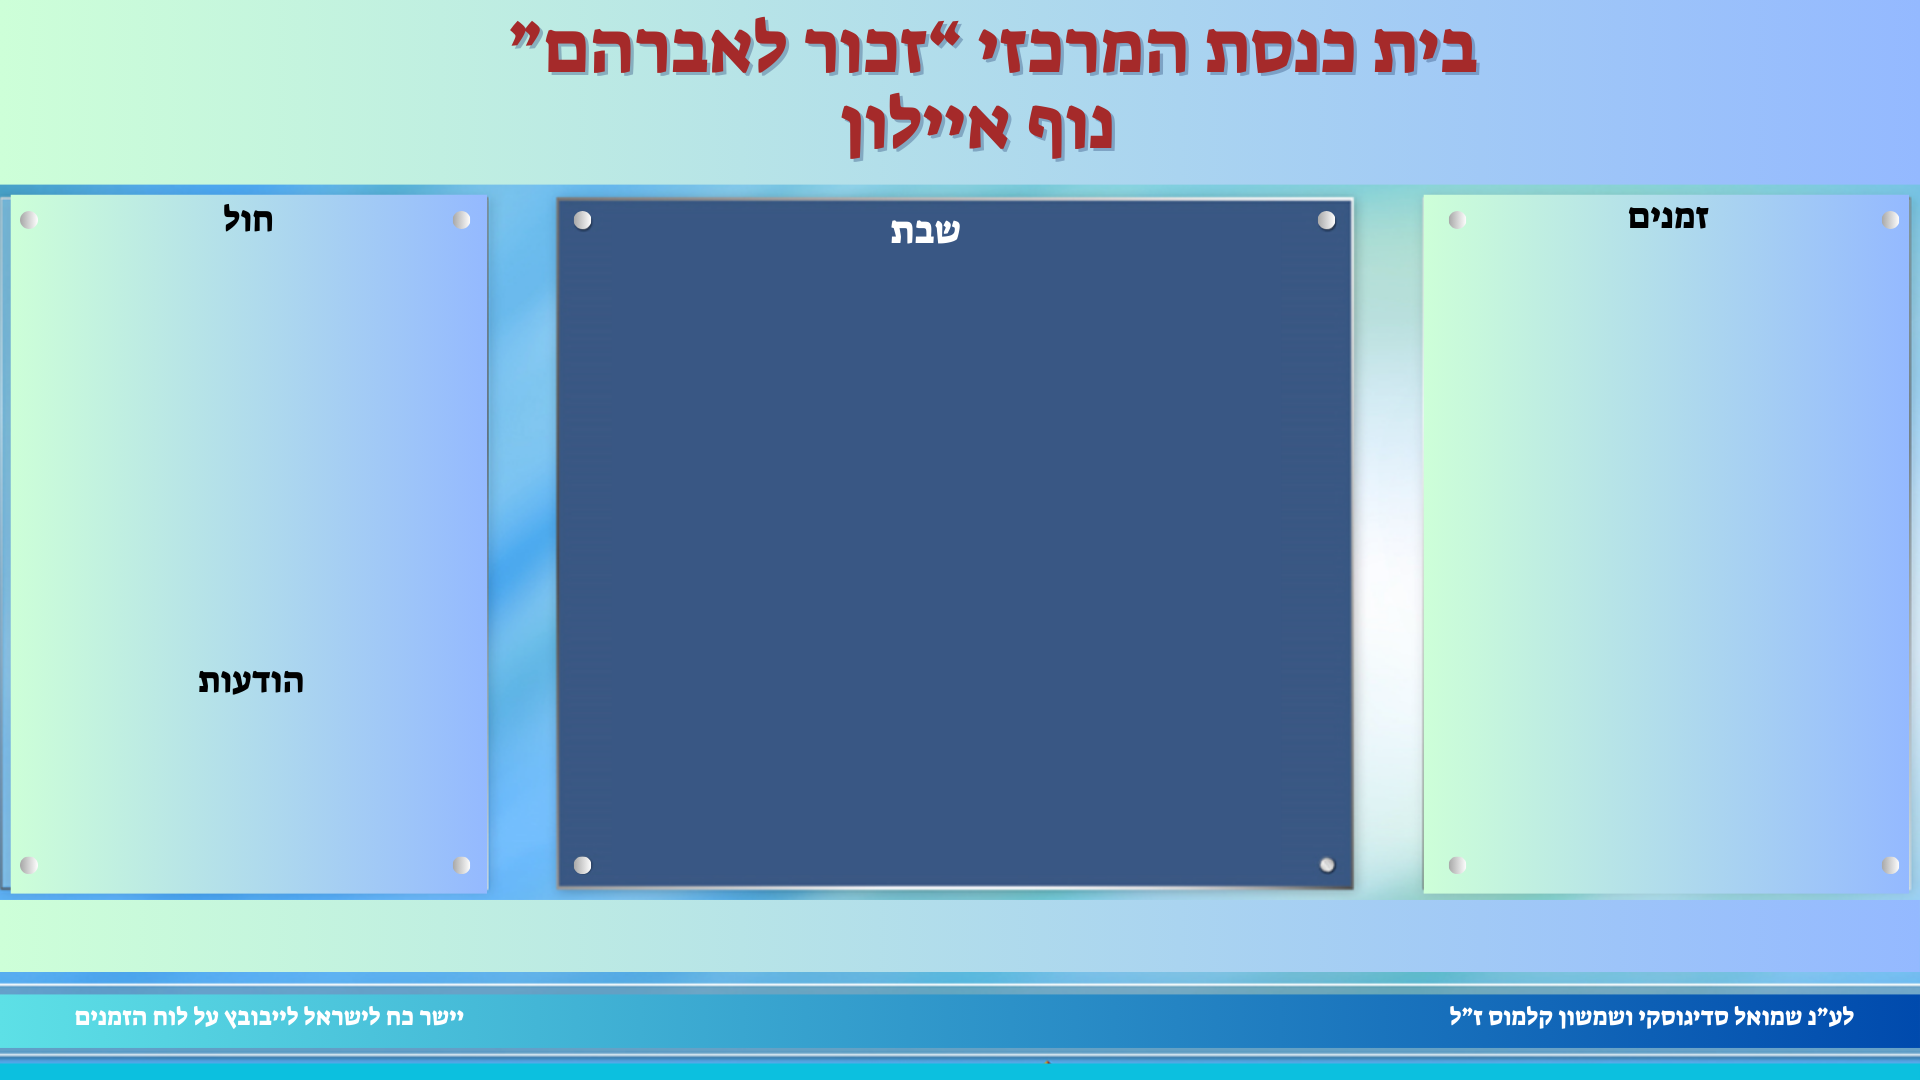
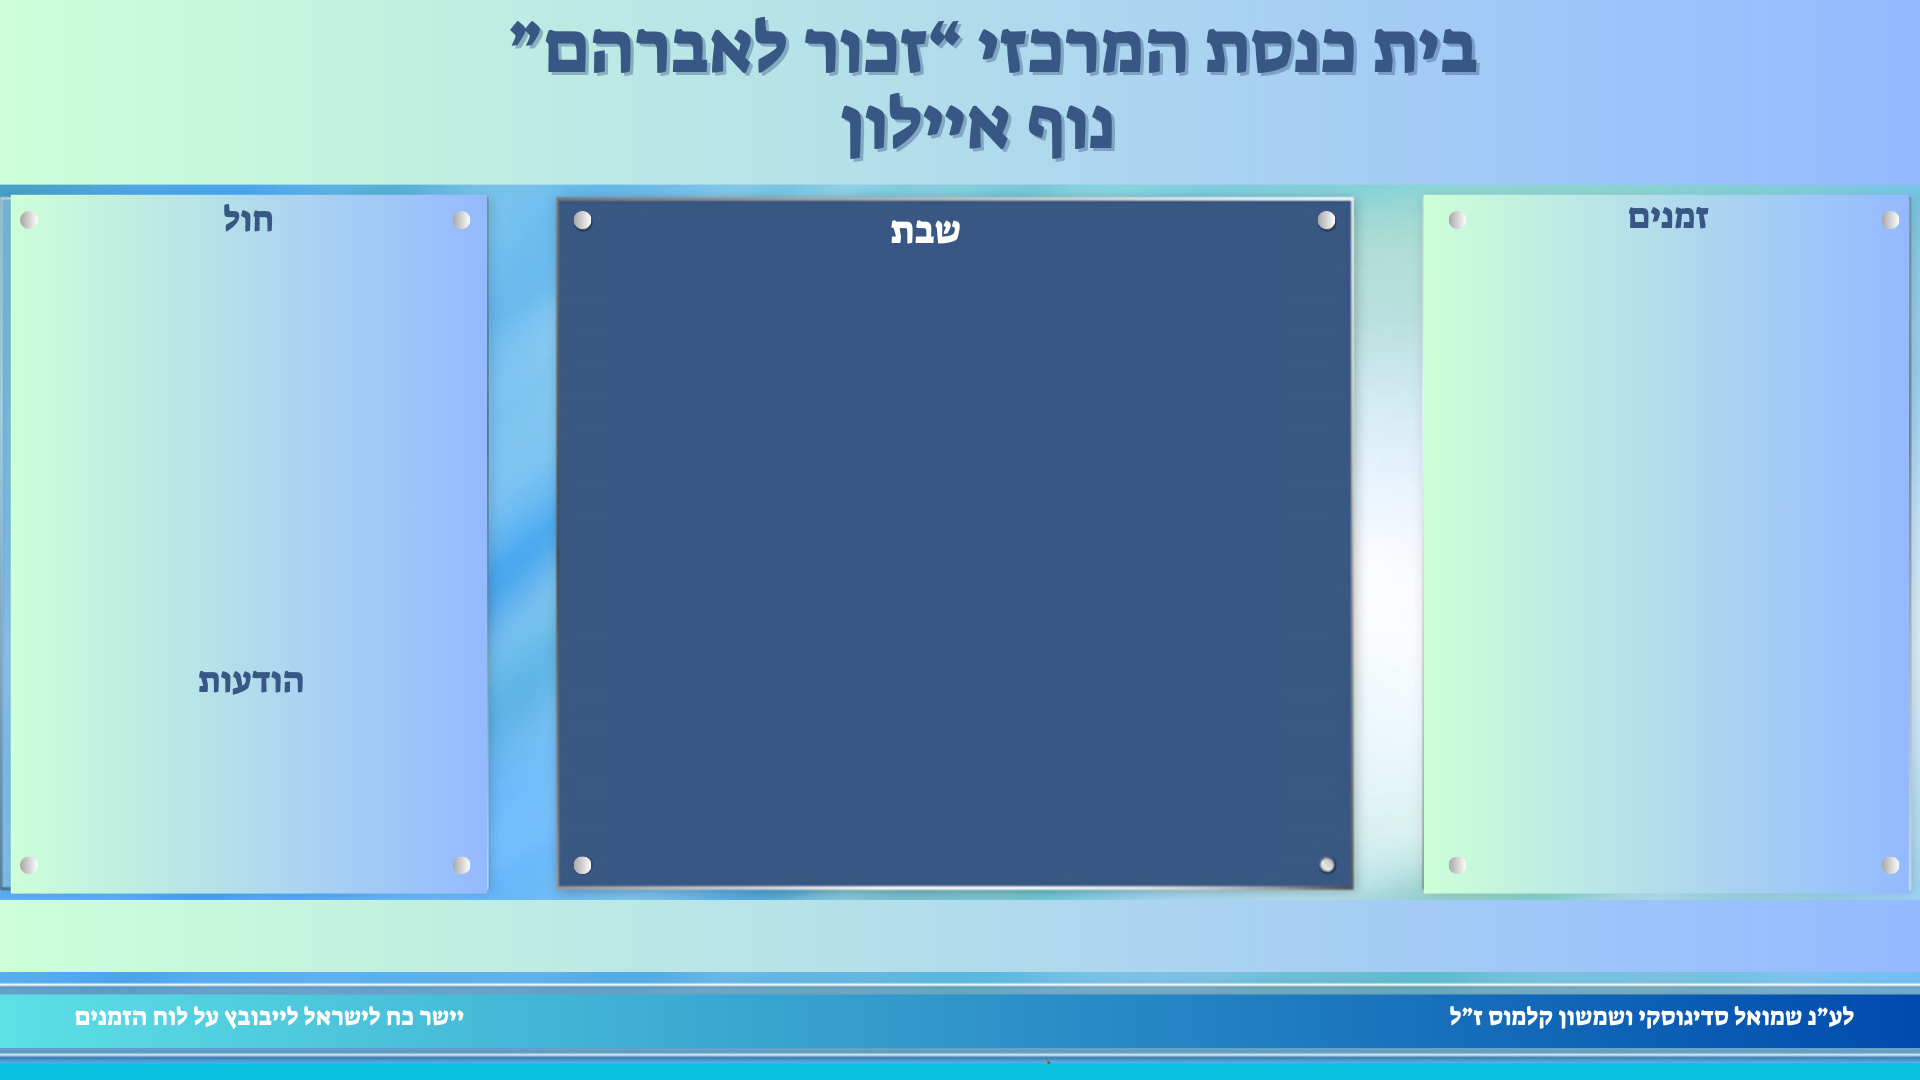
f

diff --git a/styles.css b/styles.css
@@ -32,23 +32,8 @@ body {
     padding-left: 0;
 }
 
-.thick-border {    
-    padding: 10px;
-    margin: 10px;
-}
-
-.luach-title {
-    font-size: 1.2em;
-    font-weight: bold;
-    color: #a52a2a;
-}
-
 .no-border {
     border: none;
-}
-
-.card-header {
-    text-align: center;     
 }
 
 .card-body {
@@ -56,7 +41,7 @@ body {
 }
 
 .custom-container {    
-    color: blue;
+    color: #395784;
     height: 100vh; 
     display: flex;
     justify-content: center;
@@ -67,42 +52,28 @@ body {
     justify-content: flex-end; /* Flexbox utility to align right */
 }
 
-.col-date {    
-    background-color: transparent !important;
-    color: blue;
-}
-
-.col-zmanim {
-    margin-top: 180px;     
-}
-
-.col-chol {    
-    margin-top: 180px;     
-}
-
 .custom-card{
     background-color: transparent !important;
 }
 
-.custom-card .card-header,
 .custom-card .card-body {
     margin-right: 50px;
-    padding-top: 45px;           
+    padding-top: 50px;           
 }
 
 .zmanim {
     padding-left: 100px;
-    color: blue;
+    color: #395784;
 }
 
 .chol {
     padding-right: 150px;
-    color: blue;
+    color: #395784;
 }
 
 .odahot {
     padding-right: 150px;
     padding-top: 150px;
-    color: blue;
+    color: #395784;
 }
 
